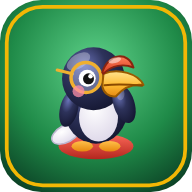
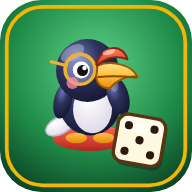
HaHe Versi 2.4: Beranda desktop dua kolom, kabut diperkuat, serangan kabut, tombol Karhutla Borneo, Tentang dan Privasi, ikon baru
Claude-Session: https://claude.ai/code/session_016nFzRfTrecXAPBcRB7RAcg

Changed region(s): [[0.2188, 0.1875, 0.875, 0.9062]]

diff --git a/index.html b/index.html
@@ -96,7 +96,7 @@ input{font-family:inherit}
 @keyframes klFly{0%{transform:translate(0,0) rotate(0);opacity:0}12%{opacity:.9}100%{transform:translate(50px,-140px) rotate(220deg);opacity:0}}
 .hz-board{position:absolute;left:50%;top:50%;transform:translate(-50%,-50%);display:none;pointer-events:none;z-index:6;border-radius:14px;overflow:hidden;opacity:0;animation:hzCover 26s ease-in-out infinite;background:radial-gradient(ellipse at 40% 45%,rgba(214,200,160,.98),rgba(214,200,160,.9) 50%,rgba(214,200,160,.7))}
 :root[data-haze="1"] #game.active .hz-board{display:block}
-@keyframes hzCover{0%,38%{opacity:.12}48%,60%{opacity:.93}72%,100%{opacity:.12}}
+@keyframes hzCover{0%,38%{opacity:.2}48%,60%{opacity:.93}72%,100%{opacity:.2}}
 .q-lite .hz-a,.q-lite .hz-b{animation:none}
 .q-lite .kl.k2{display:none}
 .q-lite .kl{animation-duration:14s}
@@ -105,7 +105,34 @@ input{font-family:inherit}
 .karhutla{display:none;border:2px solid #fff;border-radius:16px;background:#1f6fb8;color:#fff;font-weight:700;font-size:15px;font-family:inherit;min-height:46px;padding:0 14px;cursor:pointer;box-shadow:0 4px 0 #134a7d}
 .karhutla:active{transform:translateY(2px);box-shadow:0 2px 0 #134a7d}
 :root[data-haze="1"] #home .karhutla,:root[data-haze="1"] #game .karhutla{display:block}
-.karhutla.k-game{margin-top:8px;font-size:13px;min-height:40px}
+.karhutla.k-game{margin-top:8px;font-size:13px;min-height:40px;line-height:1.15}
+.karhutla:disabled{background:#8d949a;border-color:#d8dbdd;box-shadow:0 4px 0 #5f666b;color:#e9ebec;cursor:default;transform:none}
+#hzMsg .hzn{display:block;font-family:var(--disp);font-size:54px;line-height:1;color:#b3261e;margin-top:2px}
+/* kabut menyerang di papan: datang lalu hilang segera */
+.hz-atk{position:absolute;left:50%;top:50%;transform:translate(-50%,-50%);display:none;pointer-events:none;z-index:7;border-radius:14px;overflow:hidden;opacity:0;background:radial-gradient(ellipse at 40% 45%,rgba(222,208,168,1),rgba(214,200,160,.97) 55%,rgba(190,172,128,.92))}
+.hz-atk.black{background:radial-gradient(ellipse at 45% 40%,rgba(70,64,60,.99),rgba(28,25,23,.98) 60%,rgba(8,7,6,.98))}
+:root[data-haze="1"] #game.active .hz-atk{display:block}
+.hz-atk.go{animation:hzAtk 3.6s ease-in-out forwards}
+@keyframes hzAtk{0%{opacity:0}20%,66%{opacity:1}100%{opacity:0}}
+.q-lite .hz-atk{filter:none}.q-lite .hz-atk.go{animation-name:hzAtkLite}
+@keyframes hzAtkLite{0%{opacity:0}20%,66%{opacity:.8}100%{opacity:0}}
+/* Beranda berkabut: siluet hutan merah, api kecil, kalatu besar */
+.hz-fire{display:none;position:absolute;left:0;right:0;bottom:0;height:17%;overflow:visible}
+:root[data-hzs="home"] .hz-fire{display:block}
+:root[data-hzs="home"] #home .footer{text-shadow:0 1px 3px rgba(40,6,2,.9)}
+.hz-fire>svg.sil{position:absolute;left:0;bottom:0;width:100%;height:100%;filter:drop-shadow(0 0 8px rgba(255,80,30,.55))}
+.hz-flame{position:absolute;bottom:9%;transform-origin:50% 100%;animation:flame 1.1s ease-in-out infinite;filter:drop-shadow(0 0 5px rgba(255,120,30,.9))}
+@keyframes flame{0%,100%{transform:scale(1,1) rotate(-2deg)}35%{transform:scale(.88,1.18) rotate(2deg)}70%{transform:scale(1.08,.9) rotate(-1deg)}}
+.q-lite .hz-flame{animation:none}
+.kl.kx{width:var(--s,34px);height:calc(var(--s,34px)*.62);border-radius:0;clip-path:polygon(8% 45%,40% 0,100% 28%,82% 78%,42% 100%,0 72%);background:#120d0a;opacity:0;animation:klBig 15s ease-in-out forwards}
+@keyframes klBig{0%{transform:translate(0,0) rotate(0);opacity:0}10%{opacity:.92}85%{opacity:.85}100%{transform:translate(var(--dx,90px),var(--dy,-340px)) rotate(var(--rt,260deg));opacity:0}}
+.q-lite .kl.kx{display:none}
+.homeic{display:none;position:absolute;top:max(8px,env(safe-area-inset-top));width:58px;height:58px;border-radius:14px;border:3px solid #5a3315;background:linear-gradient(#e9b87a,#b9783a);box-shadow:0 4px 0 #5a3315;padding:9px;cursor:pointer;z-index:3}
+.homeic svg{width:100%;height:100%;display:block;fill:none;stroke:#5a3315;stroke-width:2;stroke-linecap:round;stroke-linejoin:round}
+.homeic:active{transform:translateY(2px);box-shadow:0 2px 0 #5a3315}
+.hcol{display:contents}
+.about .maker .nm{line-height:1.15}
+.privlist{margin:0;padding-left:20px}.privlist li{margin:0 0 8px;font-weight:700;font-size:15px}
 #hzMsg{position:absolute;left:50%;top:40%;transform:translate(-50%,-50%) scale(.7);opacity:0;pointer-events:none;z-index:45;padding:12px 22px;border-radius:20px;background:linear-gradient(#fff8e0,#ffe9a8);border:3px solid #7a4a22;box-shadow:0 6px 0 #5a3315;color:#3a2411;font-weight:700;font-size:18px;text-align:center;transition:transform .25s cubic-bezier(.3,1.6,.5,1),opacity .2s;max-width:86%}
 #hzMsg.show{opacity:1;transform:translate(-50%,-50%) scale(1)}
 
@@ -170,6 +197,23 @@ input{font-family:inherit}
 @media (max-height:720px){#home{gap:8px}#home .logo{font-size:min(20vw,84px)}#home .hello{font-size:20px}#home .menu{gap:10px}#home .bbtn{min-height:54px}#home .trio{min-height:90px}.themes{padding-top:16px}}
 #home .menu{flex:none}
 #home .logo,#home .hello,#home .tagpill{flex:none}
+/* Beranda desktop (laptop dan IFP): satu halaman, dua kolom */
+@media (min-width:900px) and (min-height:540px){
+  body.land #home.active{display:grid;grid-template-columns:minmax(0,1.55fr) minmax(300px,.7fr);grid-template-rows:minmax(0,1fr) auto;column-gap:28px;row-gap:0;overflow:hidden;align-items:center;justify-items:center}
+  body.land #home>.grow{display:none}
+  body.land #home .hL{grid-area:1/1;display:flex;flex-direction:column;align-items:center;justify-content:center;gap:12px;width:100%;min-height:0}
+  body.land #home .hR{grid-area:1/2;display:flex;flex-direction:column;align-items:center;justify-content:center;width:100%;min-height:0}
+  body.land #home .maskband{grid-area:2/1/3/3;width:100%}
+  body.land #home .hello{padding:0}
+  body.land #home .menu{width:min(380px,100%);margin-top:0}
+  body.land #home .mobonly,body.land #home #btnFs{display:none}
+  body.land #home .logo{font-size:min(15vw,150px,22vh)}
+  body.land #home .trio{min-height:0}
+  body.land #home .mask{width:min(8vw,76px)}
+  body.land #home .mk-r{width:min(8.5vw,82px)}
+  body.land #home .homeic{display:block}
+  body.land #home .hi1{right:78px}body.land #home .hi2{right:146px}body.land #home .hi3{right:214px}
+}
 
 /* ---------- LEMBAR (setup, pengaturan, about) ---------- */
 .sheetwrap{flex:1;min-height:0;display:flex;flex-direction:column;align-items:center;gap:10px}
@@ -1628,6 +1672,13 @@ input[type=range]{width:100%;accent-color:#2fa84a;height:30px}
   <!-- KABUT ASAP (hanya Hutan Borneo) -->
   <div id="haze" aria-hidden="true">
     <div class="hz-sun"></div><div class="hz-a"></div><div class="hz-b"></div>
+    <div class="hz-fire">
+      <svg class="sil" viewBox="0 0 390 100" preserveAspectRatio="none"><path d="M0 100V62L12 40L22 60L34 30L46 58L58 44L72 66L86 36L98 60L112 48L126 70L140 42L152 62L166 34L178 60L192 46L206 68L220 38L234 62L248 44L262 66L276 30L288 58L302 42L316 64L330 36L344 60L358 46L372 66L384 40L390 52V100Z" fill="#9c1f14" opacity=".55"/><path d="M0 100V78L16 58L30 76L46 52L60 74L78 56L96 80L116 60L134 82L156 58L176 80L198 62L220 84L242 60L262 82L284 56L306 80L328 60L350 82L372 62L390 78V100Z" fill="#6e120c" opacity=".7"/></svg>
+      <svg class="hz-flame" style="left:9%;width:22px" viewBox="0 0 20 28"><path d="M10 1C12 8 18 11 17 19C16.5 24 13 27 10 27C6 27 3 24 3 19C3 14 7 12 8 8C9 10 10 8 10 1Z" fill="#ff6a1a"/><path d="M10 12C12 16 14 18 13 22C12.5 25 11 26 10 26C8 26 7 24 7 22C7 19 9 17 10 12Z" fill="#ffd23f"/></svg>
+      <svg class="hz-flame" style="left:34%;width:16px;animation-delay:-.4s" viewBox="0 0 20 28"><path d="M10 1C12 8 18 11 17 19C16.5 24 13 27 10 27C6 27 3 24 3 19C3 14 7 12 8 8C9 10 10 8 10 1Z" fill="#ff6a1a"/><path d="M10 12C12 16 14 18 13 22C12.5 25 11 26 10 26C8 26 7 24 7 22C7 19 9 17 10 12Z" fill="#ffd23f"/></svg>
+      <svg class="hz-flame" style="left:61%;width:20px;animation-delay:-.7s" viewBox="0 0 20 28"><path d="M10 1C12 8 18 11 17 19C16.5 24 13 27 10 27C6 27 3 24 3 19C3 14 7 12 8 8C9 10 10 8 10 1Z" fill="#ff6a1a"/><path d="M10 12C12 16 14 18 13 22C12.5 25 11 26 10 26C8 26 7 24 7 22C7 19 9 17 10 12Z" fill="#ffd23f"/></svg>
+      <svg class="hz-flame" style="left:86%;width:15px;animation-delay:-.2s" viewBox="0 0 20 28"><path d="M10 1C12 8 18 11 17 19C16.5 24 13 27 10 27C6 27 3 24 3 19C3 14 7 12 8 8C9 10 10 8 10 1Z" fill="#ff6a1a"/><path d="M10 12C12 16 14 18 13 22C12.5 25 11 26 10 26C8 26 7 24 7 22C7 19 9 17 10 12Z" fill="#ffd23f"/></svg>
+    </div>
     <span class="kl" style="left:12%;top:70%;width:5px;height:3px;animation-delay:0s"></span>
     <span class="kl" style="left:30%;top:82%;width:4px;height:4px;animation-delay:-2.4s"></span>
     <span class="kl" style="left:48%;top:64%;width:6px;height:3px;animation-delay:-4.8s"></span>
@@ -1655,19 +1706,25 @@ input[type=range]{width:100%;accent-color:#2fa84a;height:30px}
   <!-- BERANDA -->
   <section class="screen" id="home">
     <button class="homealb" data-act="album" aria-label="Album Karakter"><svg viewBox="0 0 24 24" aria-hidden="true"><rect x="3.5" y="3" width="15" height="18" rx="2" fill="#fff3d6" stroke="#5a3315" stroke-width="1.6"/><path d="M6.5 3v18" stroke="#5a3315" stroke-width="1.6"/><circle cx="13" cy="10" r="2.6" fill="#e07a25"/><path d="M8.8 17c.6-2.6 2.2-3.6 4.2-3.6s3.6 1 4.2 3.6z" fill="#e07a25"/><rect x="18" y="6" width="3" height="4" rx=".8" fill="#5a3315"/></svg></button>
+    <button class="homeic hi1" data-act="settings" aria-label="Pengaturan" title="Pengaturan"><svg viewBox="0 0 24 24" aria-hidden="true"><circle cx="12" cy="12" r="3.4"/><path d="M12 2.8v3M12 18.2v3M2.8 12h3M18.2 12h3M5.5 5.5l2.1 2.1M16.4 16.4l2.1 2.1M18.5 5.5l-2.1 2.1M7.6 16.4l-2.1 2.1"/></svg></button>
+    <button class="homeic hi2" data-act="fs" aria-label="Layar Penuh" title="Layar Penuh"><svg viewBox="0 0 24 24" aria-hidden="true"><path d="M4 9V4h5M15 4h5v5M20 15v5h-5M9 20H4v-5"/></svg></button>
+    <button class="homeic hi3" data-act="about" aria-label="Tentang" title="Tentang"><svg viewBox="0 0 24 24" aria-hidden="true"><circle cx="12" cy="12" r="9"/><path d="M12 11v6"/><circle cx="12" cy="7.6" r=".6" fill="#5a3315"/></svg></button>
     <div class="grow"></div>
+    <div class="hcol hL">
     <div class="hello" id="hello">Tabe!</div>
     <div class="logo"><span class="h1">Ha</span><span class="h2">He</span></div>
     <div class="tagpill" style="align-self:center">Handipe Hejan · Ular Tangga</div>
     <div class="trio" id="homeTrio"></div>
     <div class="thwrap"><div class="tagpill" style="align-self:center">Pilih Tema</div><div class="themes" id="themeRow"></div><div class="thnote" id="thNote"></div></div>
+    </div>
+    <div class="hcol hR">
     <div class="menu">
       <button class="bbtn gold hidden" id="btnContinue" data-act="continue">LANJUTKAN</button>
       <div class="newwrap">
         <button class="bbtn" data-act="newgame">MAIN BARU</button>
       </div>
-      <button class="karhutla" data-act="karhutla">🔥 Padamkan Karhutla</button>
-      <div style="display:flex;gap:12px">
+      <button class="karhutla" data-act="karhutla">🔥 Padamkan Karhutla Borneo</button>
+      <div class="mobonly" style="display:flex;gap:12px">
         <button class="bbtn wood sm" data-act="settings">Pengaturan</button>
         <button class="bbtn wood sm" data-act="about">Tentang</button>
       </div>
@@ -1675,6 +1732,7 @@ input[type=range]{width:100%;accent-color:#2fa84a;height:30px}
         <button class="bbtn wood sm" id="btnFs" data-act="fs" style="font-size:16px;padding:0 8px;min-height:46px">⛶ Layar Penuh</button>
         <button class="bbtn wood sm" id="btnInstall" data-act="install" style="font-size:16px;padding:0 8px;min-height:46px">⬇ Pasang HaHe</button>
       </div>
+    </div>
     </div>
     <div class="grow"></div>
     <div class="maskband"><svg class="mask mk-l" viewBox="0 0 130 110" role="img" aria-label="Masker medis"><defs><linearGradient id="mdc" x1="0" y1="0" x2="0" y2="1"><stop offset="0" stop-color="#d8f0fb"/><stop offset="1" stop-color="#8cc8e8"/></linearGradient></defs>
@@ -1721,6 +1779,15 @@ input[type=range]{width:100%;accent-color:#2fa84a;height:30px}
     <div class="footer">HaHe ©2026 | hahe.totogutomo.com</div>
   </section>
 
+  <!-- PRIVASI -->
+  <section class="screen" id="privacy">
+    <div class="sheetwrap">
+      <div class="sheethead"><button class="rbtn" data-act="back" aria-label="Kembali"><svg><use href="#ic-back"/></svg></button><h2>Privasi</h2></div>
+      <div class="sheet about" id="privacyBody"></div>
+    </div>
+    <div class="footer">HaHe ©2026 | hahe.totogutomo.com</div>
+  </section>
+
   <!-- ALBUM KARAKTER -->
   <section class="screen" id="album">
     <div class="sheetwrap">
@@ -1742,12 +1809,13 @@ input[type=range]{width:100%;accent-color:#2fa84a;height:30px}
         </div>
       </div>
       <div class="plist" id="plist"></div>
-      <button class="karhutla k-game" data-act="karhutla">🔥 Padamkan Karhutla</button>
+      <button class="karhutla k-game" data-act="karhutla">🔥 Padamkan Karhutla Borneo</button>
     </div>
     <div class="colC">
       <div class="boardslot ordBoard" id="boardslot">
         <div class="board" id="board"></div>
         <div class="hz-board" id="hzBoard" aria-hidden="true"></div>
+        <div class="hz-atk" id="hzAtk" aria-hidden="true"></div>
         <div class="toast" id="toast"><div class="big"></div><div class="small"></div></div>
       </div>
     </div>
@@ -2014,7 +2082,7 @@ const store = {
   del(k) { try { localStorage.removeItem(k); } catch (e) {} }
 };
 const DEFAULTS = {
-  theme: 'light', layout: 'auto', quality: 'best',
+  theme: 'light', layout: 'auto', quality: 'best', fog: true,
   bgm: true, bgmVol: 0.5, sfx: true, sfxVol: 0.8,
   skin: 'borneo', dice: 'kayu', full: true,
   mode: 'klasik', timeMin: 5, throws: 10, level: 'standar', size: 'auto',
@@ -2089,21 +2157,77 @@ function remapPions(list, skinId) {
 function freePion(list) { const ids = availPions(skin().id); return ids.find(x => !list.some(p => p.pion === x)) || ids[list.length % ids.length]; }
 // tema yang tampil: saat bermain mengikuti tema permainan
 function visSkin() { return cur === 'game' && G ? G.skin : S.skin; }
-// Kabut asap: hanya Hutan Borneo, hanya di Beranda dan papan. KABUT_BISA_PADAM = false: tombol hanya membalas doa
-// (kritik kabut asap yang belum reda). Ubah ke true pada pembaruan nanti agar kabut benar-benar bisa dipadamkan.
+// Kabut asap: hanya Hutan Borneo, hanya di Beranda dan papan; bisa dimatikan di Pengaturan (S.fog).
+// KABUT_BISA_PADAM = false: tombol hanya membalas dengan pesan (kritik kabut asap yang belum reda).
 const KABUT_BISA_PADAM = false;
-let hazeOff = false;
+let hazeOff = false, hazeWas = false, khCount = 0, hzMsgT = null, hzIntroAt = 0, hzIntroT = [];
+function showHz(html, ms) {
+  const m = $('#hzMsg'); m.innerHTML = html; m.classList.add('show'); clearTimeout(hzMsgT);
+  if (ms) hzMsgT = setTimeout(() => m.classList.remove('show'), ms);
+}
+function hideHz() { clearTimeout(hzMsgT); $('#hzMsg').classList.remove('show'); }
 function applyHaze() {
-  const on = visSkin() === 'borneo' && !hazeOff && (cur === 'home' || cur === 'game');
+  const on = visSkin() === 'borneo' && !hazeOff && S.fog !== false && (cur === 'home' || cur === 'game');
   const v = on ? '1' : '0';
   const sc = on ? cur : ''; if (document.documentElement.dataset.hzs !== sc) document.documentElement.dataset.hzs = sc;
   if (document.documentElement.dataset.haze !== v) document.documentElement.dataset.haze = v;
+  if (!on || cur !== 'game') fogAtkCancel();
+  if (!on || cur !== 'home') { hzIntroT.forEach(clearTimeout); hzIntroT = []; }
+  if (on && cur === 'home' && (!hazeWas || performance.now() - hzIntroAt > 45000)) fogIntro();
+  hazeWas = on;
 }
-let hzMsgT = null;
+// Beranda berkabut: toast sambutan, lalu beberapa kalatu (abu daun terbakar) yang sangat besar melayang
+function fogIntro() {
+  hzIntroAt = performance.now();
+  hzIntroT.forEach(clearTimeout); hzIntroT = [];
+  hzIntroT.push(setTimeout(() => {
+    if (cur !== 'home' || document.documentElement.dataset.haze !== '1') return;
+    showHz('Kabut asap melanda Borneo!<br><span style="font-size:15px">Ayo padamkan Karhutla</span>', 3000);
+  }, 800));
+  hzIntroT.push(setTimeout(() => {
+    if (cur !== 'home' || document.documentElement.dataset.haze !== '1' || document.body.classList.contains('q-lite')) return;
+    const top = $('#hazeTop'); if (!top) return;
+    for (let i = 0; i < 5; i++) {
+      const k = document.createElement('span'); k.className = 'kl kx';
+      const sz = 30 + Math.random() * 26;
+      k.style.cssText = `left:${(6 + i * 18 + Math.random() * 8).toFixed(0)}%;top:${(72 + Math.random() * 22).toFixed(0)}%;--s:${sz.toFixed(0)}px;--dx:${(-60 + Math.random() * 160).toFixed(0)}px;--dy:${(-(280 + Math.random() * 160)).toFixed(0)}px;--rt:${(Math.random() < .5 ? -1 : 1) * (180 + Math.random() * 180) | 0}deg;animation-delay:${(i * 0.7).toFixed(1)}s`;
+      top.appendChild(k); setTimeout(() => k.remove(), 17000);
+    }
+  }, 3900));
+}
+// Kabut menyerang di papan: sekitar tiap 4 sampai 6 giliran (tidak di giliran pertama), kabut hitam paling jarang
+let atkG = null, atkIn = 0, atkT = [];
+function fogAtkCancel() {
+  if (atkT.length) hideHz();
+  atkT.forEach(clearTimeout); atkT = [];
+  const a = $('#hzAtk'); if (a) a.classList.remove('go', 'black');
+}
+function fogAtkTick() {
+  if (!G || G.over || cur !== 'game' || document.documentElement.dataset.haze !== '1') return;
+  if (atkG !== G) { atkG = G; atkIn = 4 + Math.floor(Math.random() * 3); }
+  if (--atkIn > 0 || atkT.length) return;
+  atkIn = 4 + Math.floor(Math.random() * 3);
+  const black = Math.random() < 0.25;
+  const num = n => `Kabut asap menyerang!<span class="hzn">${n}</span>`;
+  showHz(num(3));
+  atkT.push(setTimeout(() => showHz(num(2)), 1000));
+  atkT.push(setTimeout(() => showHz(num(1)), 2000));
+  atkT.push(setTimeout(() => {
+    hideHz();
+    const a = $('#hzAtk'); if (!a) return;
+    a.classList.remove('go', 'black'); void a.offsetWidth;
+    if (black) a.classList.add('black'); a.classList.add('go');
+  }, 3000));
+  atkT.push(setTimeout(() => { atkT = []; const a = $('#hzAtk'); if (a) a.classList.remove('go', 'black'); }, 6800));
+}
+// Tombol Padamkan Karhutla Borneo: tekan 1 dan 2 membalas pesan, tekan 3 menjadi abu-abu (aktif lagi saat halaman dimuat ulang)
 function karhutla() {
   if (KABUT_BISA_PADAM) { hazeOff = true; applyHaze(); return; }
-  const m = $('#hzMsg'); m.innerHTML = 'Pemadaman belum optimal<br><span style="font-size:15px">Doain segera pulih ya 🙏</span>';
-  m.classList.add('show'); clearTimeout(hzMsgT); hzMsgT = setTimeout(() => m.classList.remove('show'), 2200);
+  if (khCount >= 3) return;
+  khCount++;
+  if (khCount === 1) showHz('Pemadaman belum optimal<br><span style="font-size:15px">Doain segera pulih ya 🙏</span>', 2200);
+  else if (khCount === 2) showHz('Terima kasih dukungannya<br><span style="font-size:15px">untuk Karhutla Borneo</span>', 2400);
+  else { showHz('Mohon maaf, kabut asap belum menghilang', 2800); document.querySelectorAll('.karhutla').forEach(b => { b.disabled = true; }); }
 }
 function applySkin() { const s = visSkin(); if (document.documentElement.dataset.skin !== s) document.documentElement.dataset.skin = s; applyHaze(); }
 
@@ -2247,12 +2371,14 @@ function show(id, push = true) {
   if (push && cur !== id) prev.push(cur);
   if (cur === 'settings' && id !== 'settings') pend = null; // keluar Pengaturan: perubahan yang belum disimpan dibatalkan
   cur = id;
+  if (!atkT.length) hideHz();
   applySkin(); BGM.sync();
   document.querySelectorAll('.screen').forEach(s => s.classList.toggle('active', s.id === id));
   if (id === 'home') renderHome();
   if (id === 'setup') renderSetup();
   if (id === 'settings') renderSettings();
   if (id === 'about') renderAbout();
+  if (id === 'privacy') renderPrivacy();
   if (id === 'album') renderAlbum();
   if (id === 'game') { renderGame(); }
   applyLayout();
@@ -2521,7 +2647,9 @@ function renderSettings() {
   // Tampilan
   h += `<div class="sec"><h3>Tampilan</h3>${chips('theme', [['light', 'Terang'], ['dark', 'Gelap']], S.theme)}
     <div class="hint">Tata letak layar:</div>${chips('layout', [['auto', 'Otomatis'], ['portrait', 'Potret'], ['landscape', 'Landscape']], S.layout)}
-    <div class="hint">Kualitas grafis:</div>${chips('quality', [['best', 'Best', 'gerak penuh'], ['lite', 'Ringan', 'HP lama']], S.quality)}</div>`;
+    <div class="hint">Kualitas grafis:</div>${chips('quality', [['best', 'Best', 'gerak penuh'], ['lite', 'Ringan', 'HP lama']], S.quality)}
+    <div class="toggle"><span class="lbl">Efek kabut asap</span><button class="sw ${S.fog !== false ? 'on' : ''}" data-sw="fog" aria-label="Efek kabut asap"></button></div>
+    <div class="hint" style="margin-top:0">Hanya tampil di tema Hutan Borneo. Matikan bila kurang nyaman.</div></div>`;
   // Suara
   const miss = BGM.missing[sk.bgm];
   h += `<div class="sec"><h3>Suara</h3>
@@ -2577,10 +2705,29 @@ function renderAbout() {
   <p><b>HaHe</b> merupakan singkatan dari kata <b>Handipe</b> dan <b>Hejan</b>, yang berarti <b>Ular</b> dan <b>Tangga</b> dalam bahasa Dayak Ngaju.</p>
   <p style="text-align:center;font-family:var(--disp);font-size:20px;font-weight:400">“${SAPAAN.beranda}”</p>
   <p>Game santai untuk bermain bersama keluarga, teman, sahabat, pasangan, dan siapa pun, di HP, tablet, maupun IFP kelas.</p>
-  <div class="maker"><div class="hint" style="margin:0">Pembuat</div><div class="nm">Toto Gutomo</div><div class="sk">Guru SMA Negeri 3 Maliku</div></div>
-  <div class="cherry"><svg aria-hidden="true"><use href="#ic-cherry"/></svg><span>Game dibangun atas permintaan: <b>Cherry</b></span><svg aria-hidden="true"><use href="#ic-cherry"/></svg></div>
-  <div class="sec" style="margin-top:16px"><h3>Kredit backsound</h3><p class="hint" style="margin:0">Menyusul.</p></div>
-  <div class="sec"><h3>Versi</h3><p class="hint" style="margin:0">Versi 2.3 · Kabut asap Borneo · Karakter MPA · Tema Hutan Borneo, Luar Angkasa, Es Krim, Negeri Salju, Kebun Ceria, Bawah Laut, Negeri Dongeng · Album Karakter &amp; Dadu · Dadu Ajaib · Mode Edukasi &amp; Mode Cepat</p></div>`;
+  <div class="maker"><div class="hint" style="margin:0">Pembuat</div><div class="nm" style="font-size:21px">Toto Gutomo, S.Pd., Gr., M.Pd., CPSS</div></div>
+  <div class="cherry"><svg aria-hidden="true"><use href="#ic-cherry"/></svg><span>Terima kasih kepada ananda <b>Cherry</b>, pemrakarsa game ini dan penguji setia.</span><svg aria-hidden="true"><use href="#ic-cherry"/></svg></div>
+  <div class="sec" style="margin-top:16px"><h3>Tentang efek kabut asap</h3><p class="hint" style="margin:0">Efek kabut asap dalam game ini hanya pengingat dan edukasi bahwa kebakaran hutan dan lahan (karhutla) merugikan kesehatan dan alam. Game ini tidak menunjuk pihak mana pun dan tidak menggalang dana. Mari cegah sebelum terjadi: jangan membakar lahan atau sampah, dan laporkan api yang terlihat kepada pihak berwenang. Efek kabut dapat dimatikan di Pengaturan.</p></div>
+  <div class="sec"><h3>Lisensi dan kredit</h3>
+    <p class="hint" style="margin:0 0 6px">Game HaHe © 2026 Toto Gutomo.</p>
+    <p class="hint" style="margin:0 0 6px">Seluruh gambar (karakter, ikon, dan latar) dibuat dengan bantuan kecerdasan buatan (AI) berdasarkan arahan dan rancangan pembuat.</p>
+    <p class="hint" style="margin:0">Huruf: Lilita One dan Nunito (Google Fonts, lisensi SIL Open Font License).</p></div>
+  <div class="sec"><h3>Kredit backsound</h3><p class="hint" style="margin:0">Menyusul.</p></div>
+  <div class="sec"><h3>Privasi</h3><button class="bbtn wood sm" data-act="privacy" style="font-size:17px">Kebijakan Privasi</button></div>
+  <div class="sec"><h3>Versi</h3><p class="hint" style="margin:0">Versi 2.4 · Kabut asap Borneo · Karakter MPA · Tema Hutan Borneo, Luar Angkasa, Es Krim, Negeri Salju, Kebun Ceria, Bawah Laut, Negeri Dongeng · Album Karakter &amp; Dadu · Dadu Ajaib · Mode Edukasi &amp; Mode Cepat</p></div>`;
+}
+function renderPrivacy() {
+  $('#privacyBody').innerHTML = `
+  <p><b>HaHe tidak meminta, mengumpulkan, atau mengirim data pribadi Anda.</b></p>
+  <ul class="privlist">
+    <li>Tidak ada akun, iklan, maupun pelacak.</li>
+    <li>Pengaturan, nama pemain, permainan terakhir, dan progres Album hanya disimpan di perangkat ini dan tidak dikirim ke mana pun.</li>
+    <li>Berkas progres Album (hahe-album.json) hanya dibuat bila Anda sendiri menyimpannya.</li>
+    <li>Satu-satunya hubungan ke internet adalah mengambil huruf dari Google Fonts saat perangkat online; Google dapat menerima alamat internet (IP) perangkat pada saat itu. Setelah HaHe dipasang, game bisa dimainkan tanpa internet.</li>
+    <li>Untuk menghapus data, hapus data situs di peramban atau copot HaHe dari perangkat.</li>
+    <li>Nama pemain hanya untuk tampilan di permainan, jadi aman dimainkan oleh anak-anak.</li>
+  </ul>
+  <p class="hint">Pertanyaan: totogutomo92@gmail.com</p>`;
 }
 
 // ---------- Album Karakter ----------
@@ -2855,6 +3002,7 @@ function sizeBoard() {
   const s = Math.floor(Math.min(slot.clientWidth, slot.clientHeight));
   b.style.width = b.style.height = Math.max(120, s) + 'px';
   const hb = $('#hzBoard'); if (hb) hb.style.width = hb.style.height = Math.max(120, s) + 'px';
+  const ha = $('#hzAtk'); if (ha) ha.style.width = ha.style.height = Math.max(120, s) + 'px';
   const pw = b.querySelectorAll('.pion .tag');
   const fs = Math.max(8, Math.min(14, s / 34));
   pw.forEach(t => { t.style.fontSize = fs + 'px'; t.style.lineHeight = (fs * 1.35) + 'px'; });
@@ -3089,6 +3237,7 @@ function startTurn() {
   busy = false;
   placeAll(); updateHud();
   startTimer();
+  fogAtkTick();
   const p = G.players[G.turn];
   if (p.cpu) setTimeout(() => { if (G && !G.over && cur === 'game' && !paused() && G.players[G.turn] === p) doRoll(); }, 900);
 }
@@ -3373,7 +3522,7 @@ document.addEventListener('click', e => {
   if (t.dataset.ring != null) { const L = draft.kind === 'kelompok' ? draft.teams : draft.players, p = L[+t.dataset.ring]; p.ring = ringPickerNext(p.ring, L.filter(x => x !== p).map(x => x.ring)); saveDraft(); SFX.click(); return renderSetup(); }
   if (t.dataset.del != null) { const L = draft.kind === 'kelompok' ? draft.teams : draft.players; if (L.length > 2) L.splice(+t.dataset.del, 1); saveDraft(); return renderSetup(); }
   if (t.dataset.sw) {
-    S[t.dataset.sw] = !S[t.dataset.sw]; saveSettings(); SFX.vol(); BGM.sync(); // backsound: langsung main/berhenti saat dinyalakan/dimatikan
+    S[t.dataset.sw] = t.dataset.sw === 'fog' ? S.fog === false : !S[t.dataset.sw]; saveSettings(); SFX.vol(); BGM.sync(); if (t.dataset.sw === 'fog') applyHaze(); // backsound: langsung main/berhenti saat dinyalakan/dimatikan
     if (t.dataset.sw === 'sfx' && S.sfx) SFX.step(); else SFX.click(); // efek suara: langsung berbunyi saat dinyalakan (pratinjau)
     return renderSettings();
   }
@@ -3395,6 +3544,7 @@ document.addEventListener('click', e => {
     case 'continue': { FS.auto(); const sv = store.get('hahe.save', null); if (sv && !sv.over) { G = sv; show('game'); startTurn(); } break; }
     case 'settings': if (cur === 'game' && busy) break; show('settings'); break;
     case 'about': show('about'); break;
+    case 'privacy': show('privacy'); break;
     case 'karhutla': karhutla(); break;
     case 'album': albSkin = S.skin; albFocus = ''; show('album'); break;
     case 'albExport': exportAlbum(); break;

diff --git a/sw.js b/sw.js
@@ -1,6 +1,6 @@
 /* HaHe ©2026 | hahe.totogutomo.com
    Penyimpan offline: aplikasi tetap bisa dimainkan tanpa internet. */
-const CACHE = 'hahe-v14';
+const CACHE = 'hahe-v15';
 const SHELL = ['./', 'index.html', 'manifest.webmanifest', 'icons/icon.svg', 'icons/icon-192.png', 'icons/icon-512.png', 'icons/maskable-512.png'];
 
 self.addEventListener('install', e => {

diff --git a/docs/KEPUTUSAN.md b/docs/KEPUTUSAN.md
@@ -76,7 +76,7 @@ Untuk papan 10×10. Pada papan 8×8 dan 6×6 jumlah dikurangi sebanding (minimal
 
 ## 10. About
 - Arti HaHe (Handipe Hejan) dan tujuan game.
-- Pembuat: Toto Gutomo, lalu di bawahnya **"Guru SMA Negeri 3 Maliku"**.
+- Pembuat: Toto Gutomo. (Khusus HaHe sejak Versi 2.4: nama lengkap tanpa keterangan sekolah, lihat bagian 29.)
 - "Game dibangun atas permintaan: **Cherry 🍒**" (ikon ceri digambar sendiri, bukan emoji bawaan).
 - Kredit backsound.
 
@@ -279,6 +279,19 @@ Hasil diskusi hasil uji V 1.8 (delapan poin Pak Toto), semua dikerjakan.
 - **Masker** dipindah ke baris paling bawah Beranda (kiri dan kanan tulisan footer, di atas daun tema), diperbesar dan lebih detail: masker medis berlipat dan masker gas berlensa, filter, dan katup. Tampil hanya saat kabut ada. Beranda jadi sedikit lebih panjang (bisa digulir).
 - Mockup Beranda v2.2 (ikon dan masker) hanya di Claude Design, belum disimpan ke repo; di mockup masker menimpa area bawah, di game dipindah ke baris footer agar tidak menutup tombol.
 - Versi 2.3; sw.js memakai simpanan baru (hahe-v14).
+
+## 29. Update Versi 2.4 (25 Okt 2026)
+HaHe sudah **online di hahe.totogutomo.com** (diunggah Pak Toto). Instalasi dan ikon pasang sudah diuji berfungsi. Versi ini adalah polish menuju rilis publik.
+- **Beranda desktop satu halaman** (layar lebar landscape): dua kolom. Kiri: logo, karakter, pilih tema. Kanan: Main Baru, Padamkan Karhutla Borneo, Pasang. Pengaturan, Layar Penuh, Tentang jadi ikon di kanan atas, sejajar Album. Footer tidak terpotong lagi. HP tetap satu kolom.
+- **Kabut Beranda**: siluet hutan merah, api kecil, toast "Kabut asap melanda Borneo! Ayo padamkan Karhutla", lalu 5 kalatu (abu daun terbakar) yang sangat besar melayang (tidak di Mode Ringan).
+- **Kabut papan**: dasar kabut diperkuat. **Serangan kabut** acak tiap 4 sampai 6 giliran (tidak di giliran pertama): toast "Kabut asap menyerang!" hitung mundur 3-2-1, kabut datang dan segera hilang; 1 dari 4 serangan berupa **kabut hitam**. Tidak menghentikan permainan.
+- **Tombol "Padamkan Karhutla Borneo"**: tekan 1 "Pemadaman belum optimal / Doain segera pulih ya"; tekan 2 "Terima kasih dukungannya untuk Karhutla Borneo"; tekan 3 "Mohon maaf, kabut asap belum menghilang" lalu tombol abu-abu (aktif lagi setelah halaman dimuat ulang).
+- **Pengaturan > Efek kabut asap** hidup/mati (mematikan seluruh efek kabut, tombol Karhutla, dan masker).
+- **Tentang**: nama lengkap "Toto Gutomo, S.Pd., Gr., M.Pd., CPSS" (tanpa keterangan sekolah, hanya untuk HaHe, karena isu karhutla sensitif); ucapan terima kasih kepada ananda Cherry, pemrakarsa game dan penguji setia; disclaimer edukasi kabut asap (tidak menunjuk pihak mana pun, tidak menggalang dana); lisensi dan kredit (Game (c) 2026 Toto Gutomo; seluruh gambar dibuat dengan bantuan AI berdasarkan arahan pembuat; huruf Lilita One dan Nunito, SIL OFL); kredit backsound menyusul.
+- **Halaman Privasi** (dari Tentang): tidak ada akun, iklan, pelacak; data hanya di perangkat; satu-satunya hubungan internet adalah Google Fonts.
+- **Ikon baru**: Tingang dengan dadu kecil di pojok kanan bawah, latar hijau hutan (ikon biasa dan maskable).
+- Versi 2.4; sw.js memakai simpanan baru (hahe-v15).
+- Menunggu: backsound dan tangkapan layar lisensinya dari Pak Toto; uji ulang Pak Toto setelah update.
 
 ## Mockup
 Lihat `docs/mockup/` (papan Hutan Borneo, HP potret, versi final: pion 3D, bingkai Dayak, dadu terlempar).

diff --git a/README.md b/README.md
@@ -5,7 +5,7 @@ Game santai untuk bermain bersama keluarga, teman, sahabat, pasangan, dan siapa 
 
 Main di: **hahe.totogutomo.com**
 
-## Fitur (Versi 2.3)
+## Fitur (Versi 2.4)
 - Ular tangga untuk 1 sampai beberapa pemain; 1 pemain berarti melawan komputer (karakter komputer acak dan bisa diganti).
 - Tujuh tema (Hutan Borneo punya 5 karakter aktif: Ksatria Talawang terkunci sampai 2 kali main dan MPA terkunci sampai 1 kali main sampai selesai; Hutan Borneo juga berkabut asap, dengan tombol "Padamkan Karhutla"): Hutan Borneo, Luar Angkasa, Es Krim, Negeri Salju, Kebun Ceria, Bawah Laut, Negeri Dongeng (pilih tema di Beranda; tema yang sudah jadi di kiri, yang belum di kanan dengan label "Season 2": Bajak Laut dan Dinosaurus). Negeri Dongeng punya Putri Mawar dan dua siluet Princess Season 2, dan **terkunci**: terbuka setelah Hutan Borneo dimainkan sampai selesai 5 kali.
 - **Mode Edukasi**: kotak **[?]** muncul acak (Sedikit 15%, Sedang 25%, Banyak 40%), berisi soal Mengeja, Menghitung (tambah, kurang, kali, bagi; satuan sampai ribuan), Tebak Kata (Indonesia/English), dan Tantangan aktivitas. Jawaban benar berarti lempar dadu lagi. Tidak aktif saat melawan komputer.
@@ -27,7 +27,7 @@ Main di: **hahe.totogutomo.com**
 - `docs/uji/hahe-album-semua-karakter.json`: berkas uji, muat lewat Album > Muat progres untuk membuka semua tema, karakter, dan dadu.
 
 ## Status dan rencana
-- Versi 2.3 terkirim; perlu diuji di HP dan IFP (ikon dan pemasangan diuji ulang di hahe.totogutomo.com setelah deploy).
+- Versi 2.4 terkirim; perlu diuji di HP dan IFP (ikon dan pemasangan diuji ulang di hahe.totogutomo.com setelah deploy).
 - Berikutnya: tema 3D Bajak Laut dan Dinosaurus (Season 2), lalu Musim kedua Borneo.
 - Backsound per tema menyusul setelah semua tema jadi (kredit ditulis di Tentang).
 
